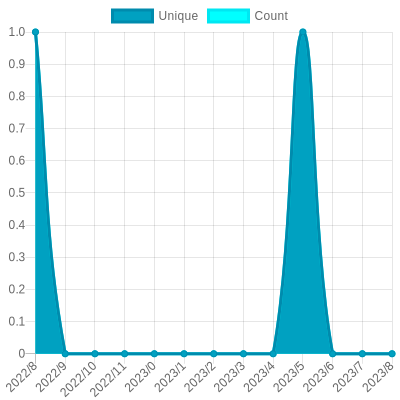
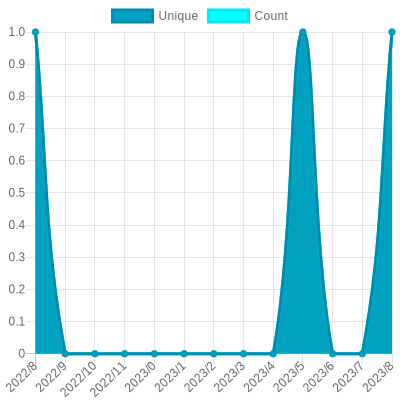
Update views

Changed region(s): [[0.9, 0.06, 0.99, 0.9]]

diff --git a/README.md b/README.md
@@ -26,7 +26,7 @@ The project created and maintained by [gayanvoice](https://github.com/gayanvoice
 			</a>
 		</td>
 		<td>
-			2022/9/25 12:36 AM UTC
+			2022/9/26 12:39 AM UTC
 		</td>
 		<td>
 			2
@@ -42,7 +42,7 @@ The project created and maintained by [gayanvoice](https://github.com/gayanvoice
 			</a>
 		</td>
 		<td>
-			2022/9/25 12:36 AM UTC
+			2022/9/26 12:39 AM UTC
 		</td>
 		<td>
 			1
@@ -58,7 +58,7 @@ The project created and maintained by [gayanvoice](https://github.com/gayanvoice
 			</a>
 		</td>
 		<td>
-			2022/9/25 12:36 AM UTC
+			2022/9/26 12:39 AM UTC
 		</td>
 		<td>
 			0
@@ -74,7 +74,7 @@ The project created and maintained by [gayanvoice](https://github.com/gayanvoice
 			</a>
 		</td>
 		<td>
-			2022/9/25 12:36 AM UTC
+			2022/9/26 12:40 AM UTC
 		</td>
 		<td>
 			3
@@ -85,7 +85,7 @@ The project created and maintained by [gayanvoice](https://github.com/gayanvoice
 	</tr>
 </table>
 
-<small><i>Last updated on 2022/9/27 6:15 PM UTC</i></small>
+<small><i>Last updated on 2022/9/28 12:46 AM UTC</i></small>
 
 ## ✂Copy and 📋 Paste
 ### Total Views Badge

diff --git a/readme/386482765/year.md b/readme/386482765/year.md
@@ -23,10 +23,10 @@
 			<code>2022/9/1</code>
 		</td>
 		<td>
-			<code>0</code>
+			<code>1</code>
 		</td>
 		<td>
-			<code>0</code>
+			<code>1</code>
 		</td>
 	</tr>
 	<tr>
@@ -164,7 +164,7 @@
 </table>
 
 </details>
-<small><i>Last updated on 2022/9/27 6:14 PM UTC</i></small>
+<small><i>Last updated on 2022/9/28 12:46 AM UTC</i></small>
 
 ## ✂Copy and 📋 Paste
 ### SVG Badge

diff --git a/readme/288138625/year.md b/readme/288138625/year.md
@@ -164,7 +164,7 @@
 </table>
 
 </details>
-<small><i>Last updated on 2022/9/27 6:14 PM UTC</i></small>
+<small><i>Last updated on 2022/9/28 12:46 AM UTC</i></small>
 
 ## ✂Copy and 📋 Paste
 ### SVG Badge

diff --git a/readme/358118711/year.md b/readme/358118711/year.md
@@ -164,7 +164,7 @@
 </table>
 
 </details>
-<small><i>Last updated on 2022/9/27 6:14 PM UTC</i></small>
+<small><i>Last updated on 2022/9/28 12:46 AM UTC</i></small>
 
 ## ✂Copy and 📋 Paste
 ### SVG Badge

diff --git a/readme/36483482/year.md b/readme/36483482/year.md
@@ -164,7 +164,7 @@
 </table>
 
 </details>
-<small><i>Last updated on 2022/9/27 6:14 PM UTC</i></small>
+<small><i>Last updated on 2022/9/28 12:46 AM UTC</i></small>
 
 ## ✂Copy and 📋 Paste
 ### SVG Badge
